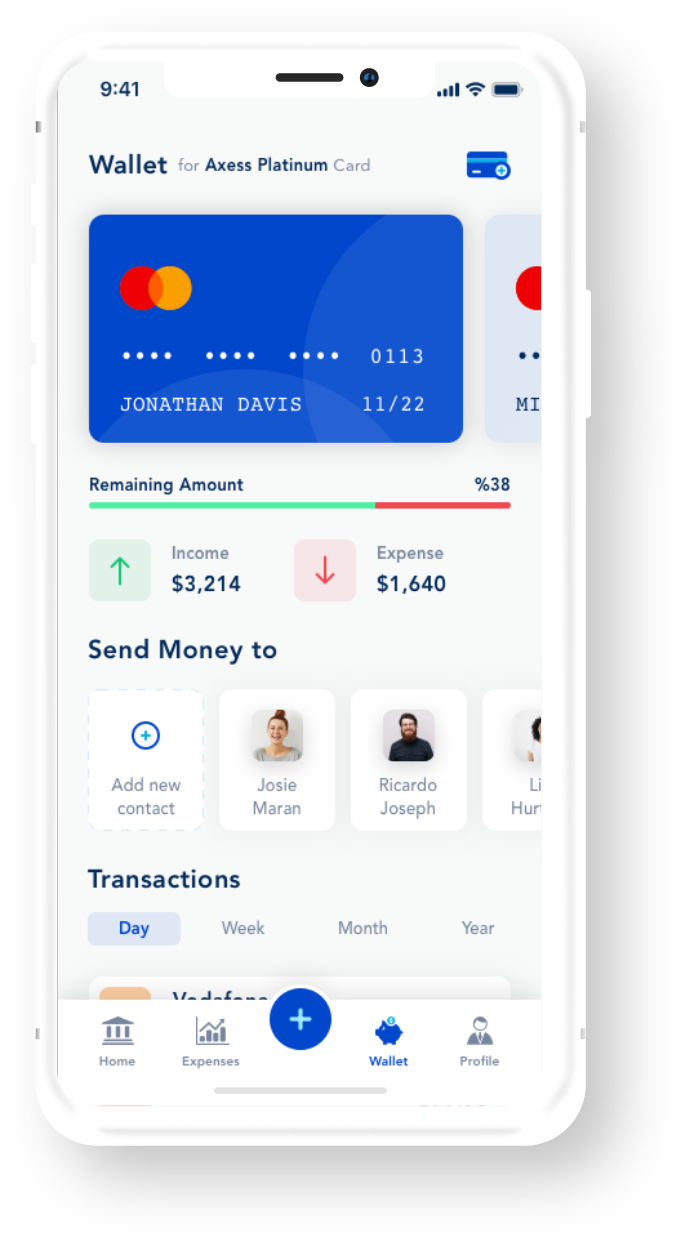
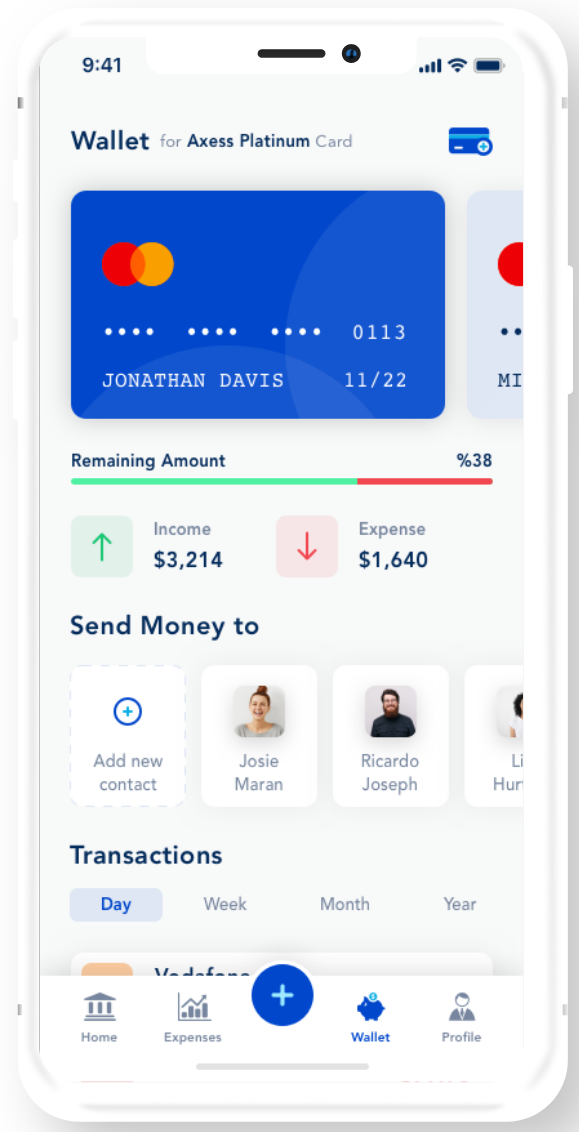
Mobile responsiveness in progress

diff --git a/CSS/style.css b/CSS/style.css
@@ -7,6 +7,7 @@
 
 body {
   font-family: Helvetica, sans-serif;
+  overflow-x: hidden;
 }
 
 ul {
@@ -23,6 +24,12 @@ a {
   margin: 0 auto;
   padding: 0;
   overflow: hidden;
+}
+
+@media only screen and (max-width: 900px) {
+  .container {
+    padding: 40px;
+  }
 }
 
 header {
@@ -60,6 +67,12 @@ header {
           align-items: center;
 }
 
+@media only screen and (max-width: 900px) {
+  .navbar nav {
+    display: none;
+  }
+}
+
 .navbar nav ul {
   display: -webkit-box;
   display: -ms-flexbox;
@@ -88,6 +101,12 @@ header {
   transition: all .2s ease-in-out;
 }
 
+@media only screen and (max-width: 900px) {
+  .navbar button {
+    display: none;
+  }
+}
+
 .navbar button:hover {
   background-color: #dbdbdb;
 }
@@ -113,12 +132,36 @@ header {
           justify-content: center;
 }
 
+@media only screen and (max-width: 900px) {
+  .hero {
+    -webkit-box-orient: vertical;
+    -webkit-box-direction: normal;
+        -ms-flex-direction: column;
+            flex-direction: column;
+  }
+}
+
 .hero .hero-content {
   -webkit-box-flex: 1;
       -ms-flex: 1;
           flex: 1;
   color: #f7f7f7;
   margin-top: 8rem;
+}
+
+.hero .hero-content:nth-child(2) {
+  display: -webkit-box;
+  display: -ms-flexbox;
+  display: flex;
+  -webkit-box-pack: center;
+      -ms-flex-pack: center;
+          justify-content: center;
+}
+
+@media only screen and (max-width: 900px) {
+  .hero .hero-content {
+    text-align: center;
+  }
 }
 
 .hero .hero-content h1 {
@@ -208,6 +251,12 @@ section {
   padding: 1rem;
 }
 
+@media only screen and (max-width: 900px) {
+  .section-two .section-two-container .section-two-content {
+    text-align: center;
+  }
+}
+
 .section-two .section-two-container .section-two-content p {
   font-size: 1.3rem;
   margin: 1.3rem 0 0 0;
@@ -245,6 +294,7 @@ section {
       -ms-flex-direction: column;
           flex-direction: column;
   position: relative;
+  border-top: 2px solid #000;
 }
 
 .section-three .section-three-image {

diff --git a/CSS/style.scss b/CSS/style.scss
@@ -8,6 +8,7 @@
 
 body{
     font-family: Helvetica, sans-serif;
+    overflow-x: hidden;
 }
 
 ul{
@@ -24,6 +25,10 @@ a{
     margin: 0 auto;
     padding: 0;
     overflow: hidden;
+
+    @media only screen and (max-width: 900px) {
+        padding: 40px;
+    }
 }
 
 header{
@@ -48,6 +53,10 @@ header{
         display: flex;
         justify-content: center;
         align-items: center;
+
+        @media only screen and (max-width: 900px) {
+            display: none;
+        }
 
         ul{
             display: flex;
@@ -74,6 +83,10 @@ header{
         text-transform: uppercase;
         transition: all .2s ease-in-out;
 
+        @media only screen and (max-width: 900px) {
+            display: none;
+        }
+
         &:hover{
             background-color: #dbdbdb;
         }
@@ -92,6 +105,8 @@ header{
     position: absolute;
     right: 0;
     bottom: 0;
+
+    
 }
 
 
@@ -99,11 +114,24 @@ header{
     display: flex;
     justify-content: center;
 
+    @media only screen and (max-width: 900px) {
+        flex-direction: column;
+    }
+
    
     .hero-content{
         flex: 1;
         color: #f7f7f7;
         margin-top: 8rem;
+
+        &:nth-child(2){
+            display: flex;
+            justify-content: center;
+        }
+
+        @media only screen and (max-width: 900px) {
+            text-align: center;
+        }
 
 
        
@@ -176,13 +204,16 @@ section{
             height: 300px;
             padding: 1rem;
 
+            @media only screen and (max-width: 900px) {
+                text-align: center;
+            }
+
                         
 
             p{
             font-size: 1.3rem;
             margin:1.3rem 0 0 0;
             color:#8D8D8D;
-
             }
 
             .section-title{
@@ -208,6 +239,7 @@ section{
     align-items: center;
     flex-direction: column;
     position: relative;
+    border-top: 2px solid #000;
 
     .section-three-image{
         position: absolute;
